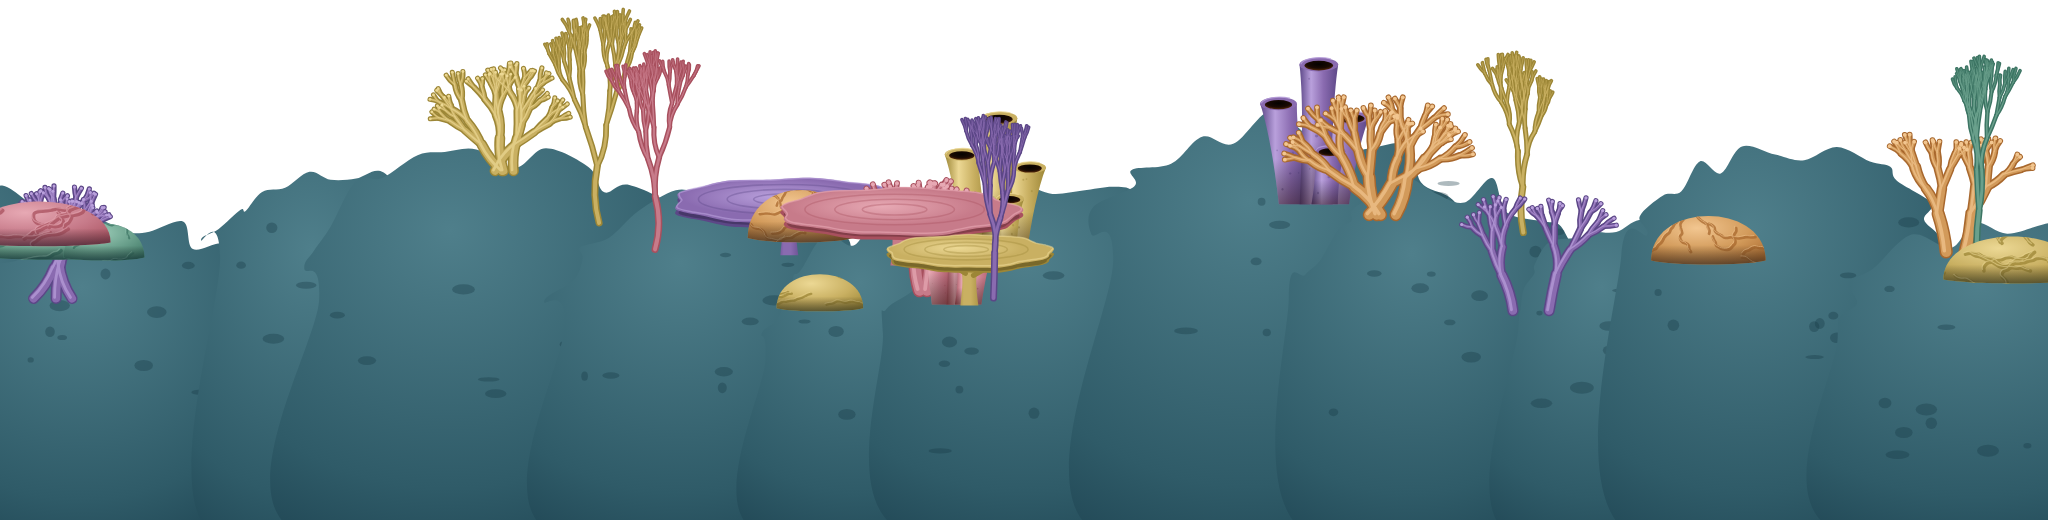
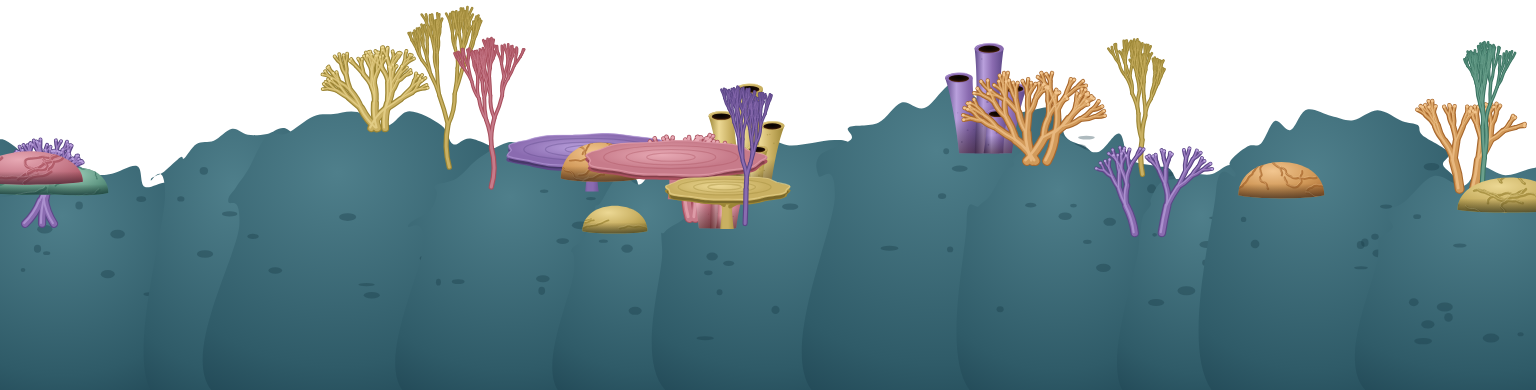
1.2.8: mid-reef background stored at three-quarter size (about 150 KB smaller, same look on screen)
Claude-Session: https://claude.ai/code/session_01TjXjoGUoKzCAKPjEBqhxMT

diff --git a/tools/make-art.js b/tools/make-art.js
@@ -927,7 +927,7 @@ asset('reef_mid', 2048, 520, () => {
     else corals += tableCoral(x, y, rand(70, 120), col);
   }
   return `${rocks}${corals}`;
-});
+}, 0.75);
 
 asset('sand', 2048, 300, () => {
   const W = 2048, H = 300, top = [];
